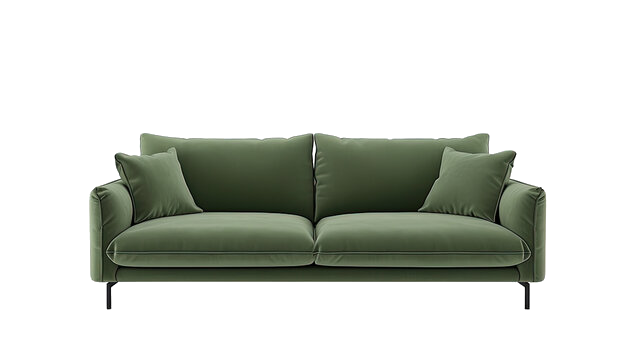
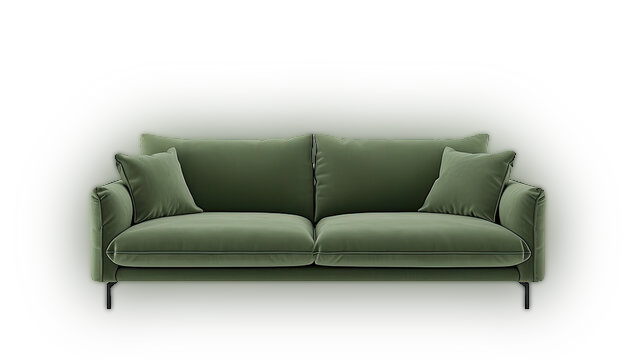
adjusted the image and the gradient to make the sofa look better

Changed region(s): [[0.0905, 0.275, 0.9349, 0.8861]]

diff --git a/frontend/mobile/lib/src/features/home/presentation/widgets/featured_collection_card.dart b/frontend/mobile/lib/src/features/home/presentation/widgets/featured_collection_card.dart
@@ -47,12 +47,30 @@ class _FeaturedCollectionCardState extends State<FeaturedCollectionCard> {
                   children: [
                     // Sofa Image on the right
                     Positioned(
-                      right: -20,
-                      bottom: -10,
+                      right: -30,
+                      bottom: -20,
                       child: Image.asset(
                         'assets/bannerSofa.png',
-                        height: 180,
+                        height: 240,
                         fit: BoxFit.contain,
+                      ),
+                    ),
+                    // Gradient overlay to fade the sofa into the background
+                    Positioned.fill(
+                      child: Container(
+                        decoration: BoxDecoration(
+                          gradient: LinearGradient(
+                            begin: Alignment.centerLeft,
+                            end: Alignment.centerRight,
+                            colors: [
+                              const Color(0xFF5A4A3A), // Fully solid on left
+                              const Color(0xFF5A4A3A).withValues(alpha: 0.8), // Solid mid left
+                              const Color(0xFF5A4A3A).withValues(alpha: 0.3), // Far fade
+                              Colors.transparent, // Only clear at the very right
+                            ],
+                            stops: const [0.0, 0.4, 0.75, 1.0],
+                          ),
+                        ),
                       ),
                     ),
                     // Text Content
